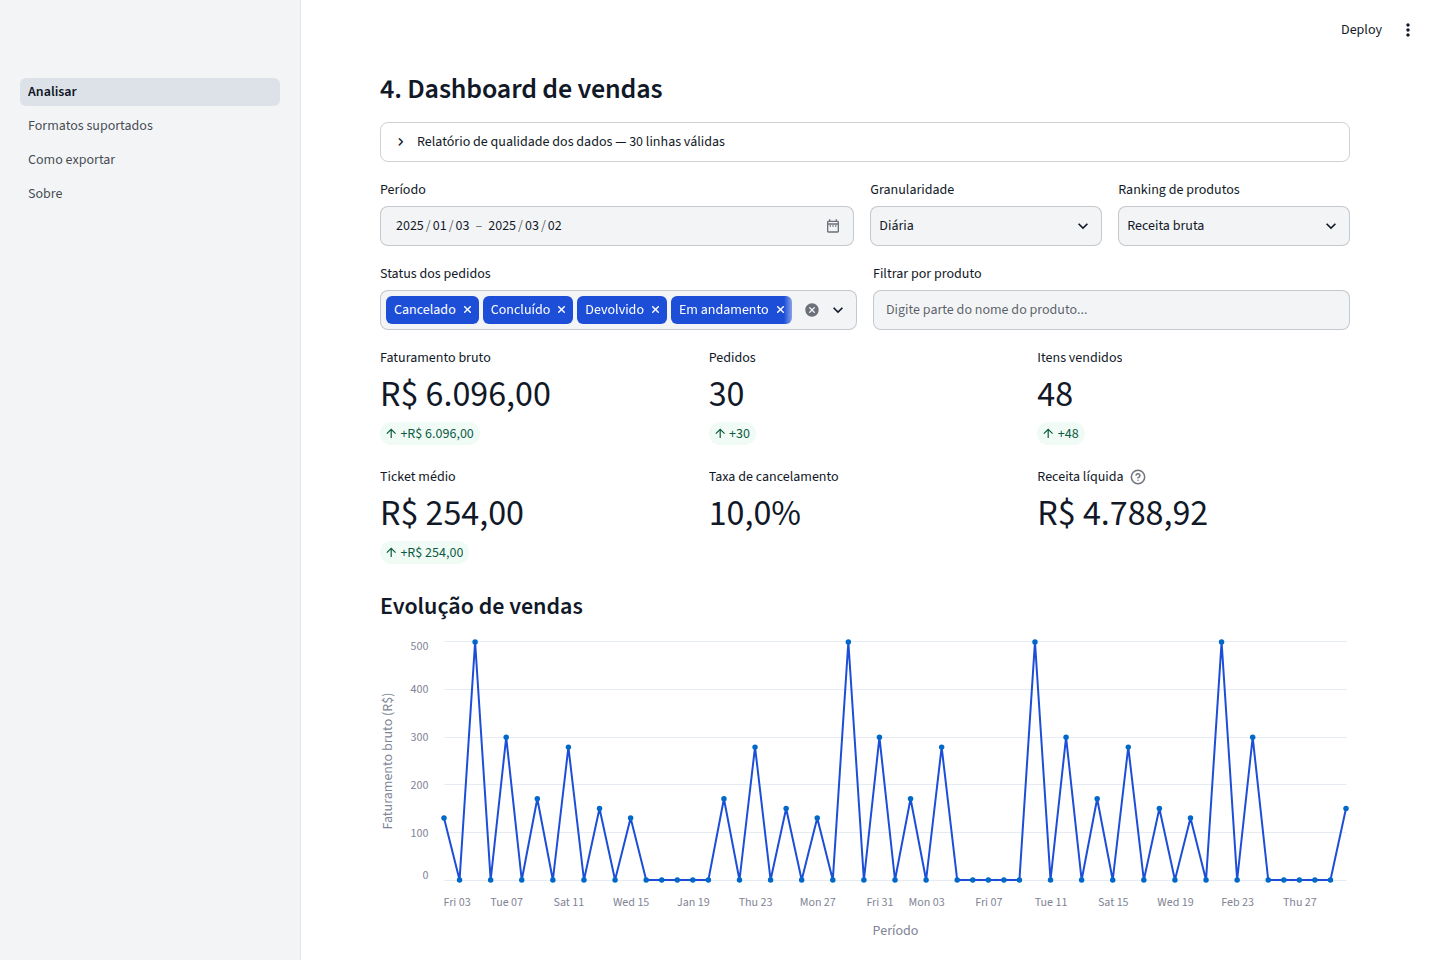
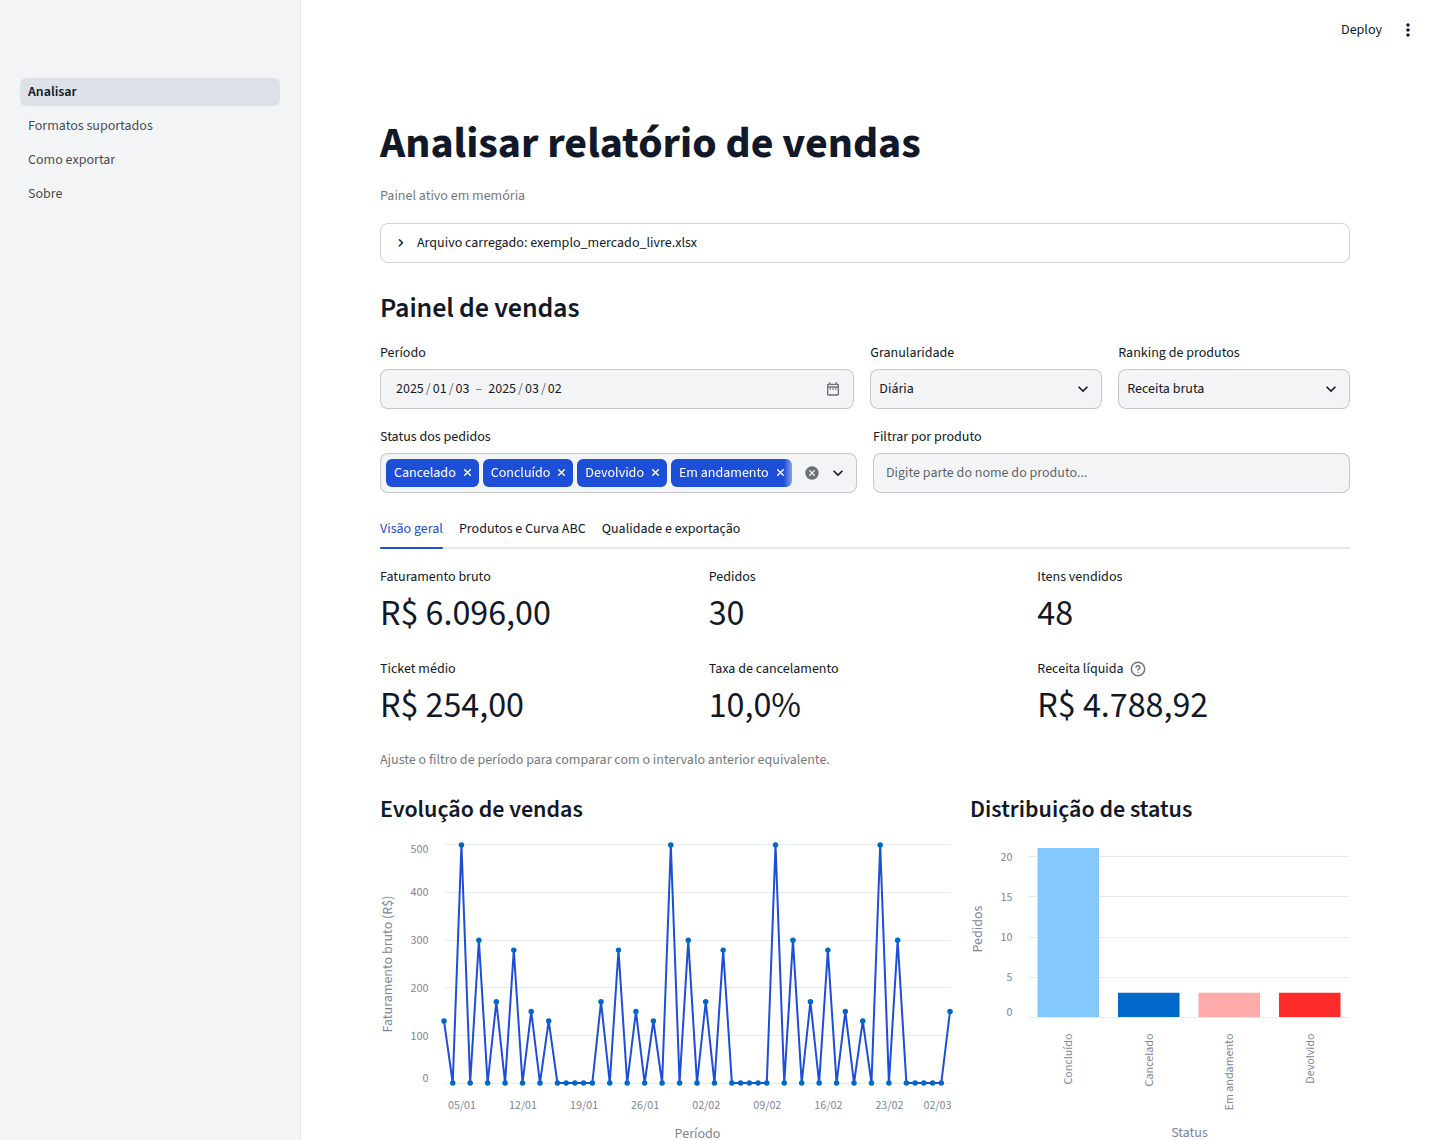
docs: reescreve README em tom direto e atualiza captura do painel

diff --git a/README.md b/README.md
@@ -1,66 +1,33 @@
 # Analisador de Relatórios de Marketplaces
 
-![Python 3.12+](https://img.shields.io/badge/Python-3.12%2B-3776AB?logo=python&logoColor=white)
-![Licença MIT](https://img.shields.io/badge/Licen%C3%A7a-MIT-green)
-[![CI](https://github.com/Mpierredev/analisador-relatorios-marketplace/actions/workflows/ci.yml/badge.svg?branch=main)](https://github.com/Mpierredev/analisador-relatorios-marketplace/actions/workflows/ci.yml)
+Aplicação web gratuita para validar, padronizar e analisar relatórios de vendas exportados do Mercado Livre, Shopee e planilhas CSV/XLSX genéricas, sem banco de dados e com processamento em memória.
+
 [![Demo ao vivo](https://img.shields.io/badge/Demo-Streamlit%20Cloud-FF4B4B?logo=streamlit&logoColor=white)](https://dashboardmaker.streamlit.app/)
+![Python 3.12+](https://img.shields.io/badge/Python-3.12%2B-3776AB?logo=python&logoColor=white)
+[![CI](https://github.com/Mpierredev/analisador-relatorios-marketplace/actions/workflows/ci.yml/badge.svg?branch=main)](https://github.com/Mpierredev/analisador-relatorios-marketplace/actions/workflows/ci.yml)
+![Licença MIT](https://img.shields.io/badge/Licen%C3%A7a-MIT-green)
 
-Aplicação web gratuita em Streamlit para validar, normalizar, diagnosticar e analisar relatórios de vendas exportados de marketplaces (Mercado Livre, Shopee e planilhas CSV/XLSX genéricas), transformando exportações brutas e heterogêneas em um dashboard interativo com exportação padronizada — **sem banco de dados, sem cadastro e com processamento integralmente em memória**.
+**Demo ao vivo:** [dashboardmaker.streamlit.app](https://dashboardmaker.streamlit.app/) (contém três planilhas sintéticas carregáveis em um clique para testar sem enviar arquivos próprios).
 
-![Dashboard do Analisador de Relatórios de Marketplaces](docs/assets/dashboard.png)
+![Painel de vendas do Analisador de Relatórios de Marketplaces](docs/assets/dashboard.png)
 
----
+## Por que este projeto existe
 
-## O problema que resolve
+Quem vende em marketplaces no Brasil costuma baixar planilhas bem diferentes entre si: arquivos com linhas de título antes do cabeçalho, encoding Latin-1, separador `;`, valores no formato `R$ 1.234,56`, datas escritas por extenso (`25 de novembro de 2024 11:43 hs.`) e status diferentes em cada canal.
 
-Vendedores de marketplaces exportam relatórios com pré-cabeçalhos de metadados, encodings variados (`UTF-8`, `UTF-8 BOM`, `UTF-16`, `Latin-1`/`cp1252`), separadores diferentes (`,`, `;`, tabulação), abas múltiplas em `.xlsx`, valores monetários no padrão brasileiro (`R$ 1.234,56`) ou internacional (`1234.56`), datas por extenso em português/espanhol e status inconsistentes.
+Construí esta ferramenta para automatizar a limpeza, validação e análise dessas exportações antes que virem painel, mantendo o processamento exclusivamente em memória.
 
-Em vez de montar planilhas manuais a cada fechamento, a ferramenta aplica um fluxo único e explícito:
+## O que o aplicativo faz
 
-```text
-Selecionar formato -> Enviar arquivo (.csv/.xlsx) -> Validar / mapear -> Gerar dashboard -> Exportar CSV/Excel
-```
+- Lê arquivos `.csv` e `.xlsx` em memória, identificando encoding, delimitador, aba e linha de cabeçalho.
+- Valida colunas obrigatórias contra formatos conhecidos e libera um mapeamento manual assistido para planilhas fora do padrão.
+- Padroniza datas para `America/Sao_Paulo`, converte valores monetários para centavos inteiros (`int64`) e gera diagnóstico de duplicidades, nulos, datas inválidas e *outliers*.
+- Calcula faturamento bruto, receita líquida (indicando quando é informada pela planilha ou derivada de taxas e frete), ticket médio, cancelamentos, séries temporais, ranking de produtos e Curva ABC.
+- Exporta os dados tratados em CSV (com BOM para Excel) e gera um resumo gerencial em `.xlsx` com cinco abas.
 
----
+## Como rodar localmente
 
-## Demo ao vivo e amostras prontas
-
-- **Aplicação online (Streamlit Community Cloud):** **[https://dashboardmaker.streamlit.app/](https://dashboardmaker.streamlit.app/)** (no plano gratuito, o app entra em suspensão após períodos de inatividade e reativa automaticamente ao abrir).
-- **Execução instantânea com amostras incluídas:** tanto na versão online quanto localmente (`streamlit run app.py`), a página **Analisar** oferece botões de carregamento em **1 clique** para três planilhas sintéticas localizadas em [`samples/`](samples/):
-  - [`exemplo_mercado_livre.xlsx`](samples/exemplo_mercado_livre.xlsx) — planilha com metadados iniciais, datas por extenso e valores em BRL;
-  - [`exemplo_generico.csv`](samples/exemplo_generico.csv) — CSV separado por `;` para demonstração do mapeamento manual assistido;
-  - [`exemplo_shopee_experimental.xlsx`](samples/exemplo_shopee_experimental.xlsx) — planilha sintética baseada na estrutura documentada de pedidos da Shopee.
-
----
-
-## Recursos principais
-
-- **Ingestão resiliente em memória:** lê `.csv` e `.xlsx` (com seleção explícita de aba quando há múltiplas abas), detecta encoding, separador e a linha real de cabeçalho mesmo quando há linhas de título ou resumo no topo da planilha.
-- **Detecção automática e validação com trava explícita:** pontua compatibilidade com os adapters registrados, detalha colunas obrigatórias/opcionais encontradas e mantém o botão **Gerar dashboard** bloqueado até que o arquivo seja validado ou mapeado manualmente.
-- **Mapeamento manual assistido:** planilhas fora do padrão conhecido são mapeadas com sugestões automáticas baseadas em similaridade de cabeçalhos e inferência de tipo de coluna (data, quantidade inteira, valor monetário, identificador).
-- **Normalização e relatório de qualidade:** converte moeda em centavos inteiros (`int64`), datas com `dayfirst` explícito para `America/Sao_Paulo`, deriva receita bruta e líquida (indicando claramente quando é informada vs. derivada) e aponta duplicidades, nulos, datas inválidas, quantidades não positivas e *outliers* por IQR.
-- **Dashboard interativo:** cartões de KPI com comparativo contra o período anterior equivalente, séries temporais (diária, semanal e mensal), ranking de produtos por receita ou quantidade, Curva ABC (Pareto), distribuição de status e filtros dinâmicos.
-- **Exportação gerencial e ajuda integrada:** gera CSV normalizado (com BOM opcional compatível com Excel em português) e workbook Excel formatado com cinco abas (`Resumo KPIs`, `Série Temporal`, `Top Produtos`, `Curva ABC` e `Status e Qualidade`), além das páginas **Formatos suportados** e **Como exportar**.
-
----
-
-## Formatos suportados
-
-Os adapters são **compatíveis com exportações observadas** nas centrais de vendedores das plataformas abaixo (não constituem contrato oficial das plataformas). Detalhes de todos os aliases e status aceitos estão em [`docs/formatos-suportados.md`](docs/formatos-suportados.md).
-
-| Formato | Chave | Nível de suporte | Idiomas de cabeçalho |
-|---|---|---|---|
-| **Mercado Livre** | `mercado_livre` | `verificado` | Português, Espanhol e Inglês |
-| **Shopee** | `shopee` | `experimental` | Português, Inglês e Espanhol |
-| **CSV/XLSX genérico** | `generico` | `verificado` | Mapeamento manual livre com sugestão |
-
----
-
-## Instalação e uso
-
-Requer **Python 3.12+**.
-
-### 1. Clonar e preparar o ambiente virtual
+Requer Python 3.12 ou superior.
 
 ```bash
 git clone https://github.com/Mpierredev/analisador-relatorios-marketplace.git
@@ -68,77 +35,36 @@ cd analisador-relatorios-marketplace
 python3 -m venv .venv
 source .venv/bin/activate
 pip install -e .
-```
-
-Para desenvolvimento, testes e validação estática:
-
-```bash
-pip install -e ".[dev]"
-pre-commit install
-```
-
-### 2. Executar a aplicação
-
-```bash
 streamlit run app.py
 ```
 
-Acesse `http://localhost:8501` no navegador.
-
-### 3. Scripts utilitários
+Para rodar testes e verificações de código:
 
 ```bash
-# Regenerar planilhas sintéticas em samples/
-python scripts/gerar_amostras.py
-
-# Executar benchmark sintético de volume e cardinalidade (até 200.000 linhas)
-python scripts/benchmark_desempenho.py
-```
-
-### 4. Verificações de qualidade
-
-```bash
+pip install -e ".[dev]"
 ruff check .
-ruff format --check .
 mypy
 pytest --cov
 ```
 
----
+Arquivos sintéticos de exemplo estão em [`samples/`](samples/) e podem ser recriados com `python scripts/gerar_amostras.py`. Há também um benchmark sintético até 200 mil linhas em `scripts/benchmark_desempenho.py` (`3,4s` para 50 mil linhas com 10 mil SKUs e `12,9s` no limite de 200 mil linhas).
 
-## Desempenho validado
+## Formatos aceitos e limites
 
-Operações de normalização, agrupamento analítico e exportação CSV são vetorizadas em pandas/NumPy, com compactação automática de tipos canônicos (`int32` e `category`) e cache isolado por sessão sem re-hashing do `DataFrame`. Medições sintéticas de referência executadas via [`scripts/benchmark_desempenho.py`](scripts/benchmark_desempenho.py):
+| Formato | Chave | Suporte | Observação |
+|---|---|---|---|
+| Mercado Livre | `mercado_livre` | Verificado | Exportações de vendas em PT, ES e EN |
+| Shopee | `shopee` | Experimental | Baseado em cabeçalhos documentados da Central do Vendedor |
+| CSV / XLSX genérico | `generico` | Verificado | Mapeamento manual com sugestão por tipo e nome |
 
-| Cenário sintético | Ingestão | Normalização | Análises | Exportação CSV | Tempo total | Memória DataFrame | Pico Python |
-|---|---:|---:|---:|---:|---:|---:|---:|
-| **50.000 linhas / 250 SKUs** (`5,43 MB`) | `0,156s` | `2,460s` | `0,261s` | `0,277s` | **`3,172s`** | `3,83 MB` | `31,26 MB` |
-| **50.000 linhas / 10.000 SKUs** (`5,43 MB`) | `0,156s` | `2,505s` | `0,449s` | `0,305s` | **`3,432s`** | `4,29 MB` | `31,30 MB` |
-| **200.000 linhas / 1.000 SKUs** (`21,74 MB`) | `0,535s` | `10,119s` | `0,890s` | `1,339s` | **`12,901s`** | `15,33 MB` | `114,92 MB` |
+- **Privacidade:** arquivos enviados nunca são gravados em disco, banco ou log; colunas extras de compradores (CPF, e-mail, endereço) são descartadas durante a normalização.
+- **Limites operacionais:** até `25 MB` e `200.000` linhas por planilha. No plano gratuito do Streamlit Community Cloud, o app hiberna após períodos sem acesso e acorda ao abrir o link.
 
----
+## Documentação
 
-## Privacidade e limites operacionais
-
-- **Zero persistência:** arquivos enviados existem somente em memória durante a sessão e nunca são gravados em disco ou banco de dados.
-- **Zero vazamento em logs:** registros estruturados capturam apenas métricas técnicas agregadas (extensão, contagem de bytes/linhas/colunas e nome de classe de exceção), nunca nomes de arquivo, compradores, CPFs, endereços ou conteúdo de células.
-- **Limites por arquivo:** extensões `.csv` e `.xlsx`, até **25 MB** e **200.000 linhas** por envio.
-- **Cache restrito:** `@st.cache_data` opera apenas sobre dados canônicos (sem colunas extras de PII), isolado por identificador aleatório de sessão (`STATE_SESSION_NONCE`), limitado a `16` entradas e expiração de `300s`.
-- **Custo de infraestrutura:** R$ 0 (aplicação totalmente *stateless*).
-
----
-
-## Documentação adicional
-
-- [Arquitetura e fluxo de dados](docs/arquitetura.md)
-- [Formatos suportados e aliases aceitos](docs/formatos-suportados.md)
-- [Como adicionar um novo adapter](docs/como-adicionar-adapter.md)
-- [Checklist de verificação dos cinco cenários de erro](docs/checklist-cenarios-erro.md)
-- [Guia de contribuição](CONTRIBUTING.md)
-- [Histórico de mudanças](CHANGELOG.md)
-
----
-
-## Licença
-
-Distribuído sob a licença **MIT**. Consulte [`LICENSE`](LICENSE) para mais detalhes.
+- [Arquitetura e esquema canônico](docs/arquitetura.md)
+- [Formatos suportados e aliases](docs/formatos-suportados.md)
+- [Como adicionar um adapter](docs/como-adicionar-adapter.md)
+- [Checklist de cenários de erro](docs/checklist-cenarios-erro.md)
+- [Como contribuir](CONTRIBUTING.md)
+- [Changelog](CHANGELOG.md) · [Licença MIT](LICENSE)

diff --git a/docs/checklist-cenarios-erro.md b/docs/checklist-cenarios-erro.md
@@ -1,43 +1,23 @@
-# Checklist de Verificação — Cinco Cenários de Erro
+# Checklist de cenários de erro
 
-Este documento registra os **5 cenários obrigatórios de tratamento de erros** antes do empacotamento/lançamento da ferramenta. Todos os cenários devem apresentar mensagem clara em português, sugestão prática de correção, nenhum *traceback* técnico visível ao usuário e nenhum vazamento de conteúdo de arquivo nos logs.
+Cinco casos problemáticos validados na interface antes de publicar uma nova versão. Todos precisam retornar orientação clara em português, sem exibir rastros de erro técnico nem vazar dados dos arquivos em log.
 
-## Cenário 1 — Extensão não suportada ou `.xlsx` corrompido (`UnsupportedFileError`)
-- **Como reproduzir**: Enviar um arquivo com extensão `.pdf`/`.txt` ou um arquivo `.xlsx` truncado/corrompido na página **Analisar**.
-- **Comportamento esperado**:
-  - A leitura é bloqueada na camada de ingestão antes de qualquer interpretação tabular.
-  - A interface exibe o banner de erro em português informando formato inválido ou planilha corrompida, acompanhado da sugestão para exportar novamente em `.csv` ou `.xlsx`.
-  - O estado anterior do dashboard permanece limpo (`dashboard_liberado = False`), sem exceções na tela.
-- **Resultado verificado**: Aprovado em teste de integração automatizado (`AppTest`) e inspeção da camada `ui.services`.
+1. **Extensão não suportada ou `.xlsx` corrompido (`UnsupportedFileError`)**
+   - Enviar `.pdf`, `.txt` ou planilha `.xlsx` truncada na página **Analisar**.
+   - A leitura é interrompida na entrada, com mensagem orientando exportar novamente em `.csv` ou `.xlsx` e sem liberar o painel.
 
-## Cenário 2 — Arquivo vazio ou sem cabeçalho identificável (`HeaderNotFoundError`)
-- **Como reproduzir**: Enviar um CSV totalmente vazio (`0` bytes), um CSV só com quebras de linha/células em branco ou um Excel sem linha de cabeçalho identificável.
-- **Comportamento esperado**:
-  - A camada de ingestão rejeita o arquivo com `HeaderNotFoundError`.
-  - A interface exibe orientação em português explicando que nenhuma linha de cabeçalho tabular foi encontrada e sugerindo confirmar se a exportação contém os nomes das colunas.
-  - Nenhuma tabela parcial ou cálculo zerado é liberado para o dashboard.
-- **Resultado verificado**: Aprovado em teste de integração automatizado (`AppTest`).
+2. **Arquivo vazio ou sem linha de cabeçalho (`HeaderNotFoundError`)**
+   - Enviar CSV com `0` bytes, apenas linhas em branco ou Excel sem cabeçalho identificável.
+   - O sistema bloqueia o avanço e orienta conferir se a planilha contém nomes de colunas.
 
-## Cenário 3 — Arquivo acima do limite operacional (`FileTooLargeError`)
-- **Como reproduzir**: Enviar arquivo com tamanho superior a `25 MB` (`MAX_FILE_SIZE_MB`) ou planilha tabular com mais de `200.000` linhas (`MAX_ROWS`).
-- **Comportamento esperado**:
-  - A ingestão interrompe a carga imediatamente ao detectar excesso de bytes ou excesso de linhas.
-  - A interface exibe mensagem informando o limite operacional e orientando a dividir o período exportado em lotes menores.
-  - Nenhuma estrutura gigante permanece retida em memória de sessão ou em cache.
-- **Resultado verificado**: Aprovado em teste de integração automatizado (`AppTest`) com simulação dos limites operacionais.
+3. **Arquivo acima do limite operacional (`FileTooLargeError`)**
+   - Enviar planilha maior que `25 MB` (`MAX_FILE_SIZE_MB`) ou com mais de `200.000` linhas (`MAX_ROWS`).
+   - O envio é recusado com instrução para dividir a exportação em períodos menores.
 
-## Cenário 4 — Colunas obrigatórias ausentes ou arquivo de outro marketplace (`ValidationStatus.UNRECOGNIZED`)
-- **Como reproduzir**: Enviar uma planilha tabular cujos cabeçalhos não correspondem ao formato selecionado (ex.: colunas arbitrárias `quando;item;qtde;total_bruto` com formato *Mercado Livre* selecionado).
-- **Comportamento esperado**:
-  - A etapa **2. Validação e mapeamento** exibe as colunas faltantes, sugestões automáticas por similaridade/tipo e o formulário de mapeamento manual.
-  - O botão **Gerar dashboard** permanece explicitamente **desabilitado** (`disabled=True`) até que todas as colunas obrigatórias sejam mapeadas ou outro formato válido seja escolhido.
-  - Ao completar o mapeamento manual e aplicar, o sistema alterna para o modo genérico e libera o botão **Gerar dashboard**.
-- **Resultado verificado**: Aprovado em teste de integração automatizado (`AppTest`).
+4. **Colunas obrigatórias ausentes ou formato de outro marketplace (`ValidationStatus.UNRECOGNIZED`)**
+   - Enviar tabela com cabeçalhos incompatíveis com o formato escolhido.
+   - O botão **Gerar dashboard** permanece desabilitado até o mapeamento manual ou ajuste de formato.
 
-## Cenário 5 — Colunas válidas, mas todas as linhas falham na normalização (`NormalizationError`)
-- **Como reproduzir**: Enviar um relatório com todas as colunas obrigatórias válidas (ex.: formato *Mercado Livre*), porém com 100% das linhas contendo datas inválidas, quantidades não positivas (`0` ou negativas) ou valores monetários corrompidos, e clicar em **Gerar dashboard**.
-- **Comportamento esperado**:
-  - A validação estrutural reconhece o cabeçalho e habilita o botão **Gerar dashboard**.
-  - Ao acionar **Gerar dashboard**, a normalização descarta as linhas irrecuperáveis, constata `valid_rows == 0` e dispara `NormalizationError`.
-  - A página **Analisar** captura a exceção via `translate_exception`, exibe banner amigável orientando revisar datas, quantidades e valores monetários, e mantém o dashboard bloqueado sem exibir *traceback*.
-- **Resultado verificado**: Aprovado em teste de integração automatizado (`AppTest`).
+5. **Cabeçalho reconhecido, porém todas as linhas inválidas (`NormalizationError`)**
+   - Enviar planilha com colunas válidas e todas as linhas contendo datas inválidas, quantidades zeradas ou preços corrompidos.
+   - Ao clicar em **Gerar dashboard**, a tela exibe imediatamente o aviso orientando revisar datas, quantidades e valores sem travar a sessão.

diff --git a/CHANGELOG.md b/CHANGELOG.md
@@ -14,7 +14,9 @@ e este projeto adota o [Versionamento Semântico](https://semver.org/lang/pt-BR/
 
 ### Alterado
 
+- Gráficos de série temporal e tooltips em Altair formatados em `pt-BR` (`%d/%m` e `%m/%Y`), painel principal organizado em abas (`Visão geral`, `Produtos e Curva ABC`, `Qualidade e exportação`), bloco de upload recolhido após gerar o painel e deltas comparativos exibidos apenas quando há base no período anterior.
 - Resolução do diretório `samples/` em `src/analisador/ui/samples.py` passou a incluir *fallback* para `Path.cwd() / "samples"`, garantindo funcionamento em instalações não editáveis e em ambientes de nuvem.
+- `README.md` reescrito em formato direto com captura atualizada em `docs/assets/dashboard.png` e organização dos testes por domínio.
 
 ## [1.0.0] - 2026-11-25
 
